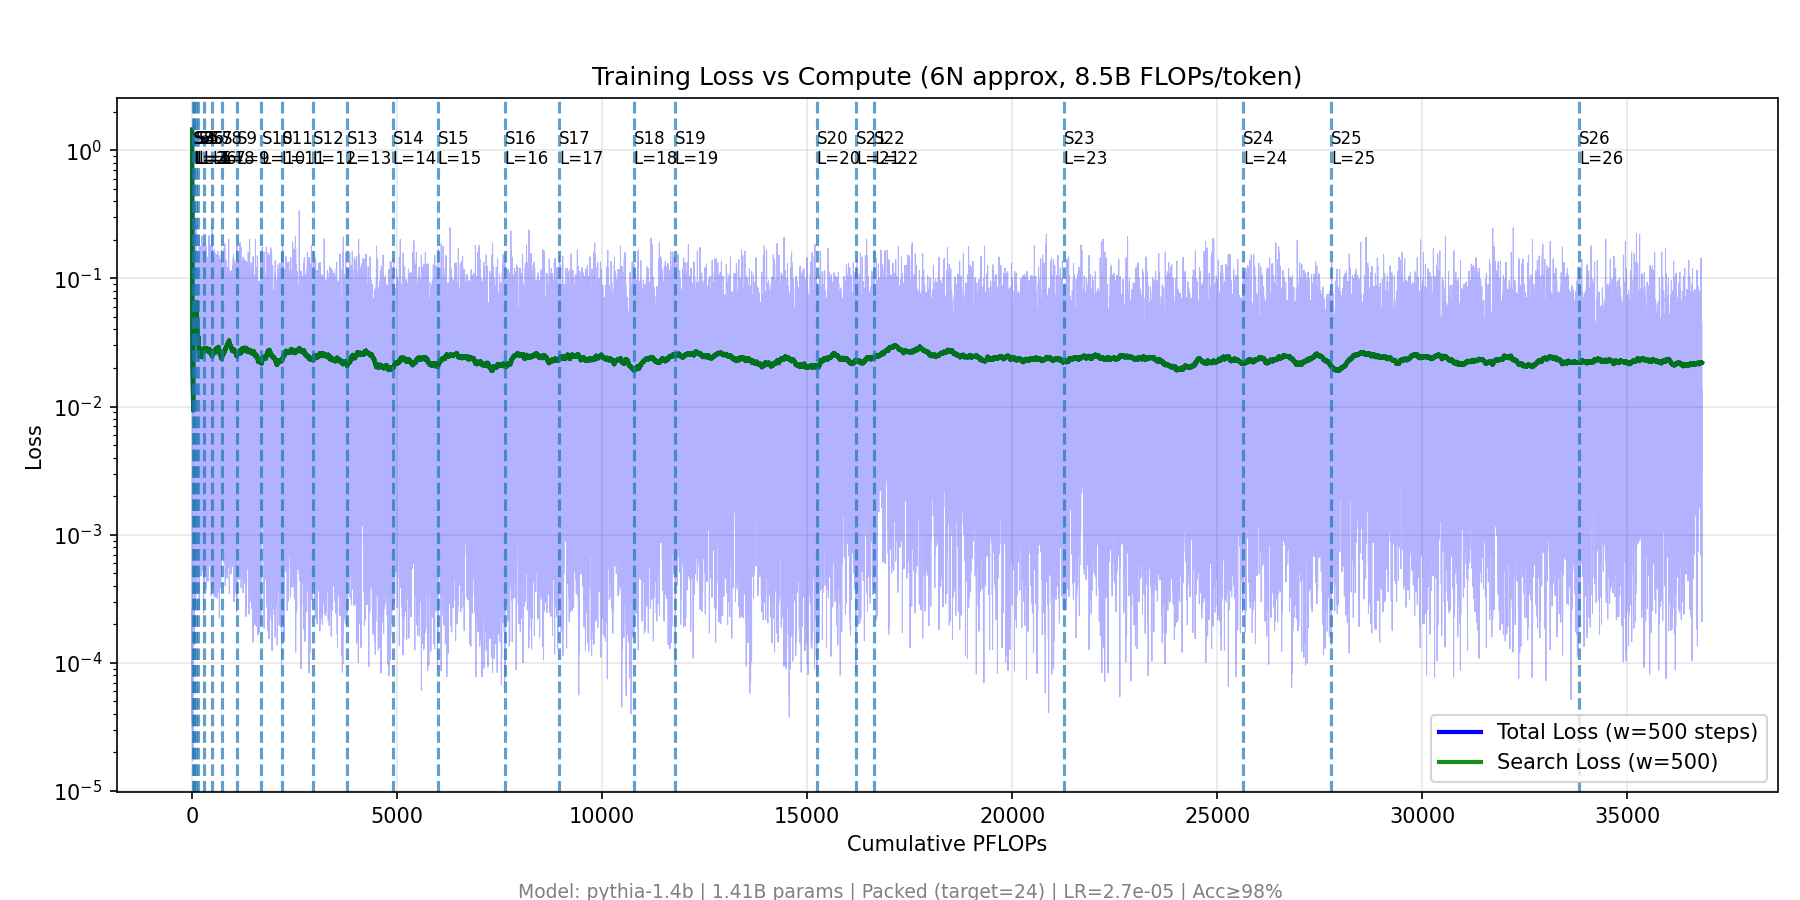
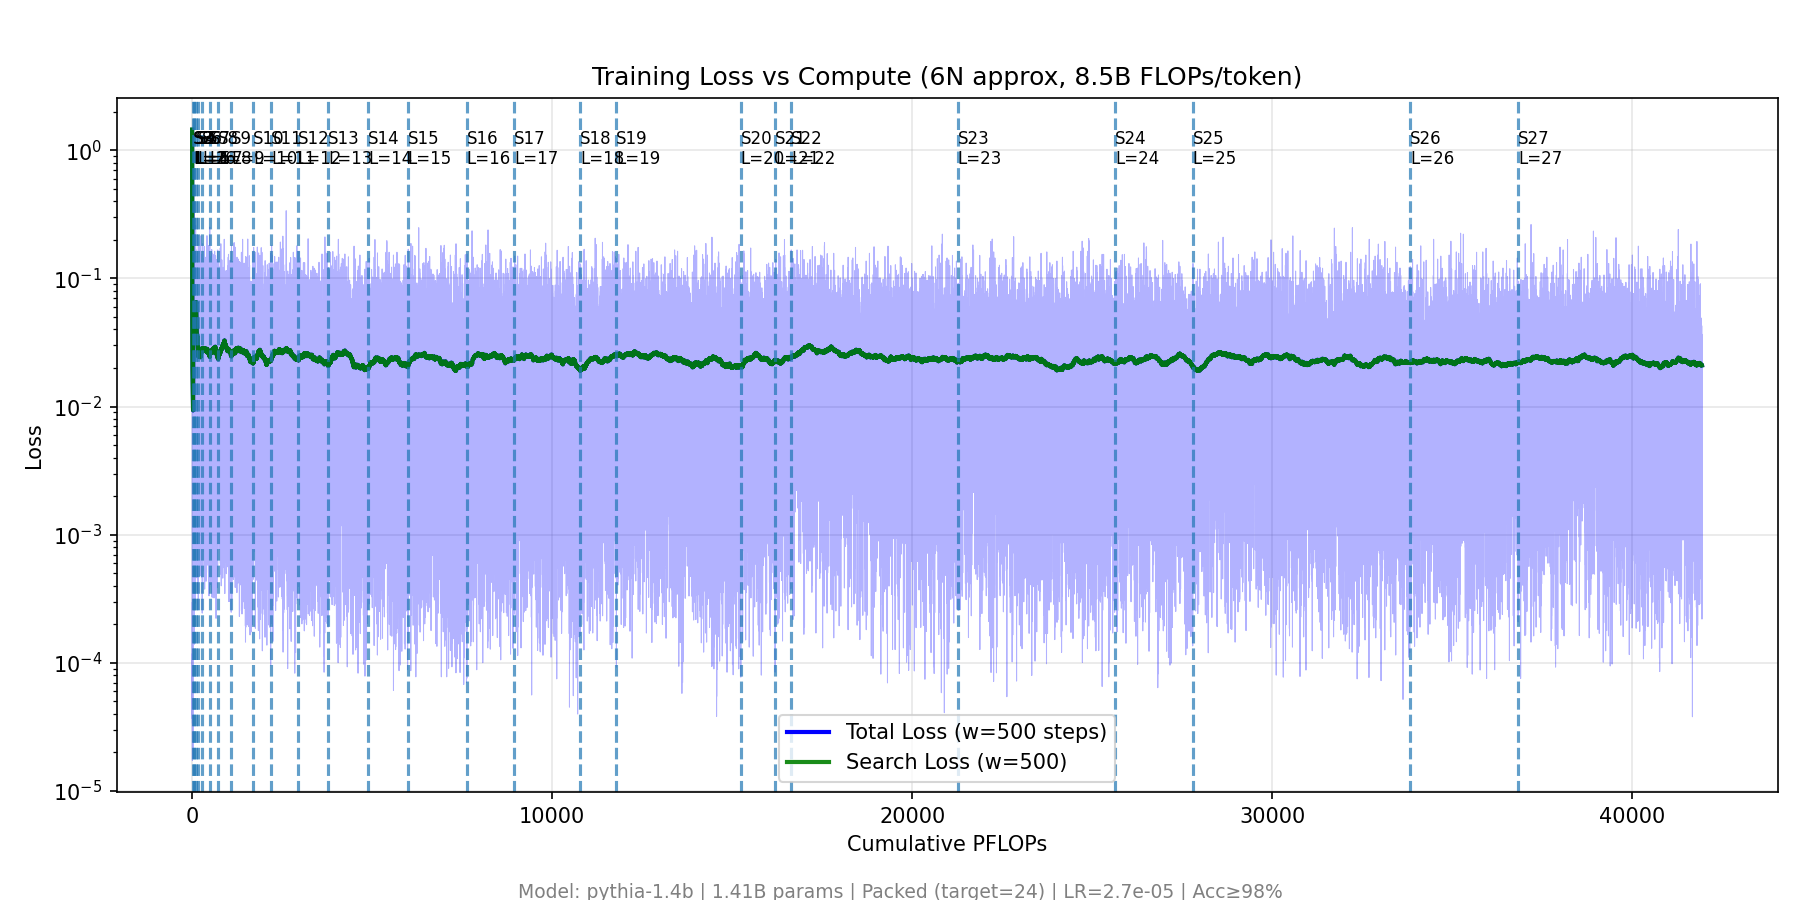
Update Experiment 2 progress (2026-10-18 06:56 UTC)

diff --git a/PROGRESS.md b/PROGRESS.md
@@ -3,7 +3,7 @@
 **Base commit:** `da7b19c` (`main`, plus `--revision` support in `nl/tuning_nl.py`)
 **Branch:** `jackierwzhang/exp2-pythia14b-revisions`
 **VM Instances:** `nl-exp2-spot-step1000`, `nl-exp2-spot-step10000`, `nl-exp2-spot-step100000`, `nl-exp2-spot-step143000` (4x `a3-highgpu-4g` Spot, 4x H100-80GB each)
-**Last updated:** 2026-10-18 06:39 UTC
+**Last updated:** 2026-10-18 06:56 UTC
 
 ## Shared Configuration
 
@@ -29,7 +29,7 @@
 | `step1000` | `step1000` | ~2.1B | `exp2_pythia14b_step1000` | Spot 4x H100 (us-east4-a) | Completed (PFLOPs cap) | 673000 | 28/96 (`L=28`) | 94.62% | 96.25% | 0.0295 | 500,310.1 | 1238.0 | 121.84h | 0.0h (Done) |
 | `step10000` | `step10000` | ~21.0B | `exp2_pythia14b_step10000` | Spot 4x H100 (us-east4-a) | Completed (PFLOPs cap) | 615500 | 28/96 (`L=28`) | 94.88% | 97.75% | 0.0298 | 500,428.3 | 1240.3 | 120.07h | 0.0h (Done) |
 | `step100000` | `step100000` | ~209.7B | `exp2_pythia14b_step100000` | Spot 4x H100 (us-east4-b) | Completed (PFLOPs cap) | 347000 | 58/96 (`L=58`) | 94.88% | 96.88% | 0.0260 | 500,114.3 | 1290.1 | 101.85h | 0.0h (Done) |
-| `step143000` | `step143000` | ~299.9B | `exp2_pythia14b_step143000` | Spot 4x H100 (us-east5-a) | Running | 59560 | 27/96 (`L=27`) | 95.25% | 97.38% | 0.0203 | 41,917.9 | 1277.0 | 8.89h | ~22.8h (stg rate, 28.1% L) / 92.4h (500k cap @ 4,956 PF/h) |
+| `step143000` | `step143000` | ~299.9B | `exp2_pythia14b_step143000` | Spot 4x H100 (us-east5-a) | Running | 61040 | 28/96 (`L=28`) | 95.88% | 97.62% | 0.0225 | 43,374.5 | 1275.3 | 9.19h | ~22.4h (stg rate, 29.2% L) / 92.3h (500k cap @ 4,947 PF/h) |
 
 ## Stage Evaluation Summary (`stage_eval_history.json`, every 8 stages)
 
